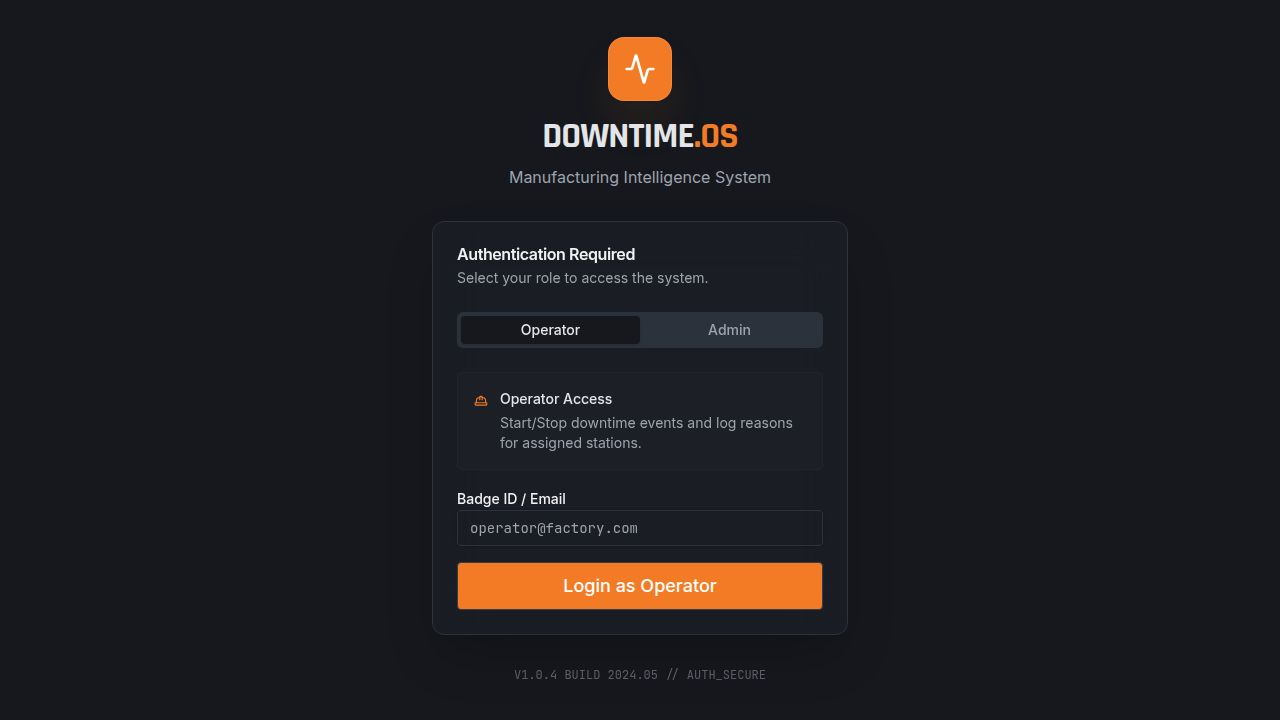
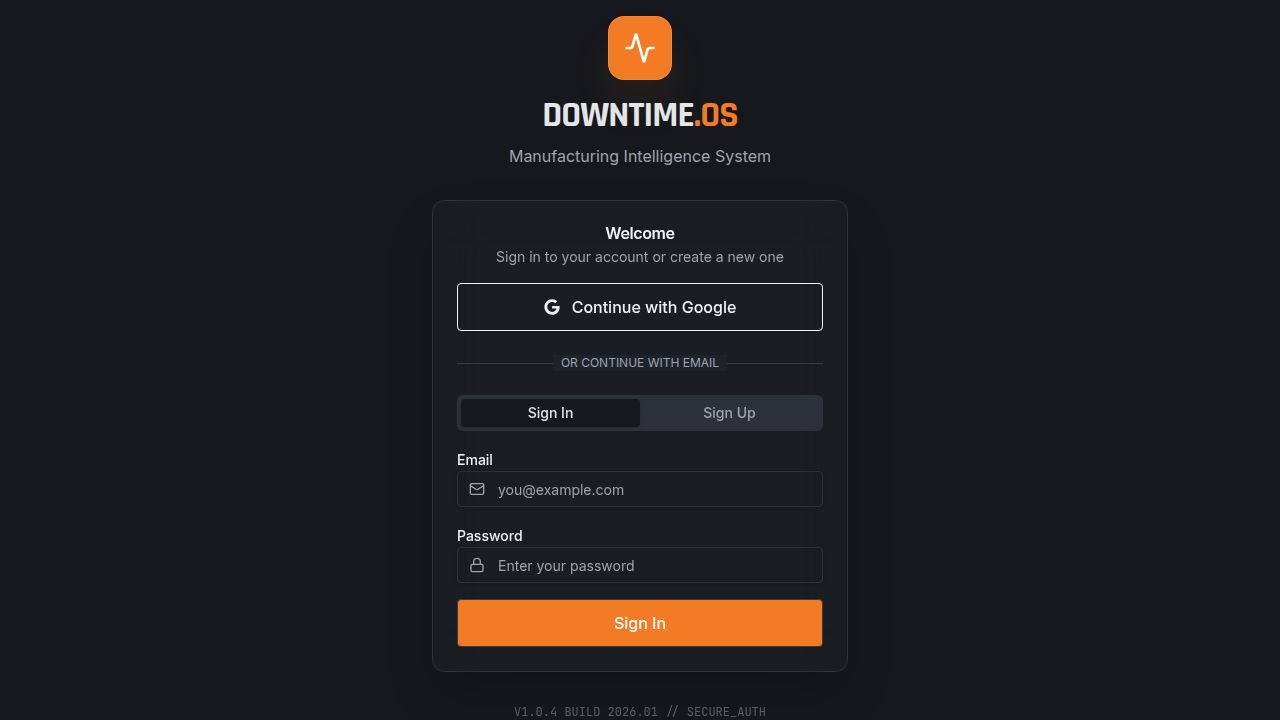
Add Google sign-in functionality for user authentication
Integrates Google OAuth 2.0 using Passport.js in server/auth.ts and updates the client/src/pages/auth.tsx to enable Google login redirects. Includes necessary package installations in package.json.

Replit-Commit-Author: Agent
Replit-Commit-Session-Id: 3152a675-1e98-4be2-b00f-bc340f752cd9
Replit-Commit-Checkpoint-Type: full_checkpoint
Replit-Commit-Event-Id: 955b2975-c2bb-4913-8a30-9fbd0e059db1
Replit-Commit-Screenshot-Url: https://storage.googleapis.com/screenshot-production-us-central1/693bc66e-5204-4a50-8ba4-8d1c57790e1c/3152a675-1e98-4be2-b00f-bc340f752cd9/2kHPlpl
Replit-Helium-Checkpoint-Created: true

diff --git a/server/auth.ts b/server/auth.ts
@@ -6,6 +6,8 @@ import { randomBytes } from "crypto";
 import type { Express, RequestHandler } from "express";
 import session from "express-session";
 import connectPg from "connect-pg-simple";
+import passport from "passport";
+import { Strategy as GoogleStrategy } from "passport-google-oauth20";
 
 // Session setup
 export function getSession() {
@@ -165,10 +167,78 @@ export const isAuthenticated: RequestHandler = (req, res, next) => {
   return res.status(401).json({ message: "Unauthorized" });
 };
 
+// Setup Google OAuth
+function setupGoogleOAuth(app: Express) {
+  const clientID = process.env.GOOGLE_CLIENT_ID;
+  const clientSecret = process.env.GOOGLE_CLIENT_SECRET;
+  
+  if (!clientID || !clientSecret) {
+    console.log("Google OAuth not configured - missing GOOGLE_CLIENT_ID or GOOGLE_CLIENT_SECRET");
+    return false;
+  }
+
+  // Determine callback URL based on environment
+  const callbackURL = process.env.REPL_SLUG 
+    ? `https://${process.env.REPL_SLUG}.${process.env.REPL_OWNER}.repl.co/api/auth/google/callback`
+    : "http://localhost:5000/api/auth/google/callback";
+
+  passport.use(
+    new GoogleStrategy(
+      {
+        clientID,
+        clientSecret,
+        callbackURL,
+      },
+      async (accessToken, refreshToken, profile, done) => {
+        try {
+          const email = profile.emails?.[0]?.value;
+          if (!email) {
+            return done(new Error("No email found in Google profile"), undefined);
+          }
+
+          const user = await createOrUpdateGoogleUser({
+            googleId: profile.id,
+            email,
+            firstName: profile.name?.givenName,
+            lastName: profile.name?.familyName,
+            profileImageUrl: profile.photos?.[0]?.value,
+          });
+
+          return done(null, user);
+        } catch (error) {
+          return done(error as Error, undefined);
+        }
+      }
+    )
+  );
+
+  passport.serializeUser((user: any, done) => {
+    done(null, user.id);
+  });
+
+  passport.deserializeUser(async (id: string, done) => {
+    try {
+      const user = await findUserById(id);
+      done(null, user);
+    } catch (error) {
+      done(error, null);
+    }
+  });
+
+  return true;
+}
+
 // Register auth routes
 export function registerAuthRoutes(app: Express) {
   // Setup session middleware
   app.use(getSession());
+  
+  // Setup passport
+  app.use(passport.initialize());
+  app.use(passport.session());
+  
+  // Setup Google OAuth if configured
+  const googleEnabled = setupGoogleOAuth(app);
 
   // Signup
   app.post("/api/auth/signup", async (req, res) => {
@@ -284,4 +354,36 @@ export function registerAuthRoutes(app: Express) {
 
     res.json({ message: "Email verified successfully" });
   });
+
+  // Google OAuth status check
+  app.get("/api/auth/google/status", (req, res) => {
+    res.json({ enabled: googleEnabled });
+  });
+
+  // Google OAuth routes (only if configured)
+  if (googleEnabled) {
+    app.get(
+      "/api/auth/google",
+      passport.authenticate("google", { scope: ["profile", "email"] })
+    );
+
+    app.get(
+      "/api/auth/google/callback",
+      passport.authenticate("google", { failureRedirect: "/auth?error=google_failed" }),
+      (req, res) => {
+        // Set session userId from passport user
+        if (req.user) {
+          (req.session as any).userId = (req.user as any).id;
+        }
+        res.redirect("/");
+      }
+    );
+  } else {
+    // Return error if Google OAuth not configured
+    app.get("/api/auth/google", (req, res) => {
+      res.status(503).json({ 
+        message: "Google sign-in is not configured. Please add GOOGLE_CLIENT_ID and GOOGLE_CLIENT_SECRET." 
+      });
+    });
+  }
 }

diff --git a/client/src/pages/auth.tsx b/client/src/pages/auth.tsx
@@ -96,12 +96,7 @@ export default function AuthPage() {
   };
 
   const handleGoogleLogin = () => {
-    // Google OAuth will be implemented when the integration is set up
-    toast({ 
-      title: 'Coming soon', 
-      description: 'Google sign-in will be available once configured.',
-      variant: 'default'
-    });
+    window.location.href = '/api/auth/google';
   };
 
   if (isLoading) {
